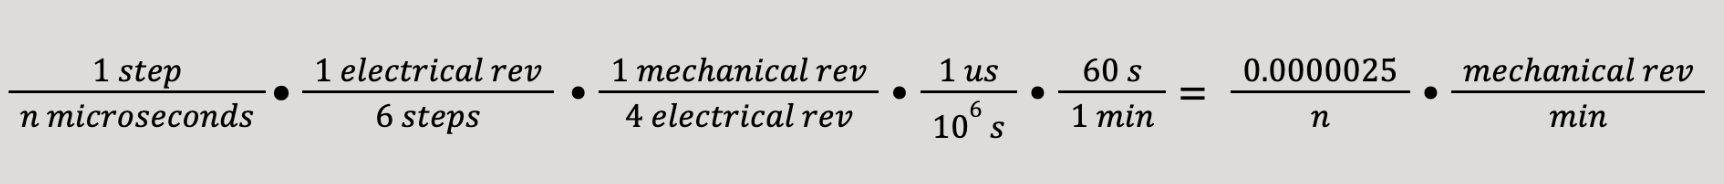
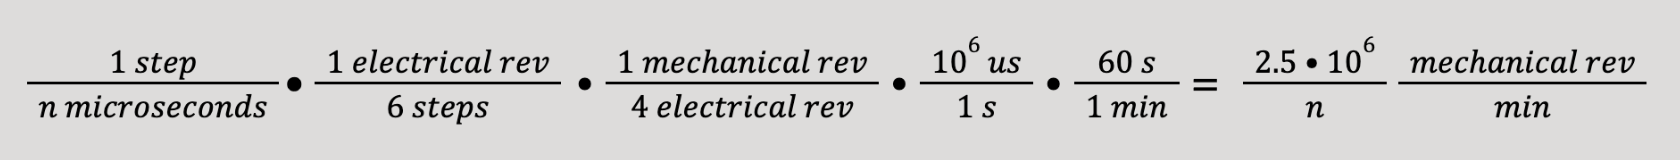
add gif citation, fix vhz eqn

diff --git a/high_level_overview.html b/high_level_overview.html
@@ -41,6 +41,9 @@
               generated by the stator windings. In order to apply the greatest torque, the stator magnetic field should lead the rotor magnetic field by 90°.
           </p>
           <img src="images/bldc_motor_gif.gif" width="500" style="margin: auto; display: block;"/>
+          <p class="caption"> 
+            BLDC Motor GIF, from [3].
+          </p>
         <h3>1.2 Why Trapezoidal Control?</h3>
           
           <p class="project">
@@ -173,11 +176,18 @@
             </p>
         <h3>1.5 Patents, Copyrights, Trademarks</h3>
             <p class="project">
-                BLDC motor control with trapezoidal commutation is a widely implemented control technique. The PWM generation utilizes a PIO state machine adapted from reference code provided by Raspberry Pi (Trading) Ltd. [2]. All other implementation details are original work. See Appendix for references.
+                BLDC motor control with trapezoidal commutation is a widely implemented control technique. The PWM generation utilizes a PIO state machine adapted from reference code provided by Raspberry Pi (Trading) Ltd. [2]. All other implementation details are original work. 
             </p>
         <h3>1.6 AI Acknowledgement</h3>
             <p class="project">
               We did not use AI to design or implement any part of our program.
+            </p>
+        <h3>1.7 Citations</h3>
+            <p class="project">
+              [1] B. Akin, M. Bhardwaj, and J. Warriner, “Trapezoidal Control of BLDC Motors Using Hall Effect Sensors,” <span>Texas Instruments</span>, 2011. <br>
+              [2] Raspberry Pi PIO PWM example, © 2020 Raspberry Pi (Trading) Ltd. <br>
+              [3] Dave Wilson, "Brushless Motors: High Power Density with Control Overhead" Massachusetts Institute of Technology, 2018.
+
             </p>
 
     

diff --git a/software_design.html b/software_design.html
@@ -202,7 +202,7 @@ uint32_t data = 0b000000 |
         </p>
         <img src="images/v_hz_fracs.png" style="display: block; margin: auto;" width="700"/>
         <pre style="font-size: larger; font-family: 'Courier New', Courier, monospace;">
-              float raw_rpm = 2.5e-6f / step_period;
+              float raw_rpm = 2.5e6f / step_period;
         </pre>
         <p class="project">
           Although this updates our velocity most accurately at the highest frequency, this method does not work as the motor stops rotating, because the hall effect sensors 
